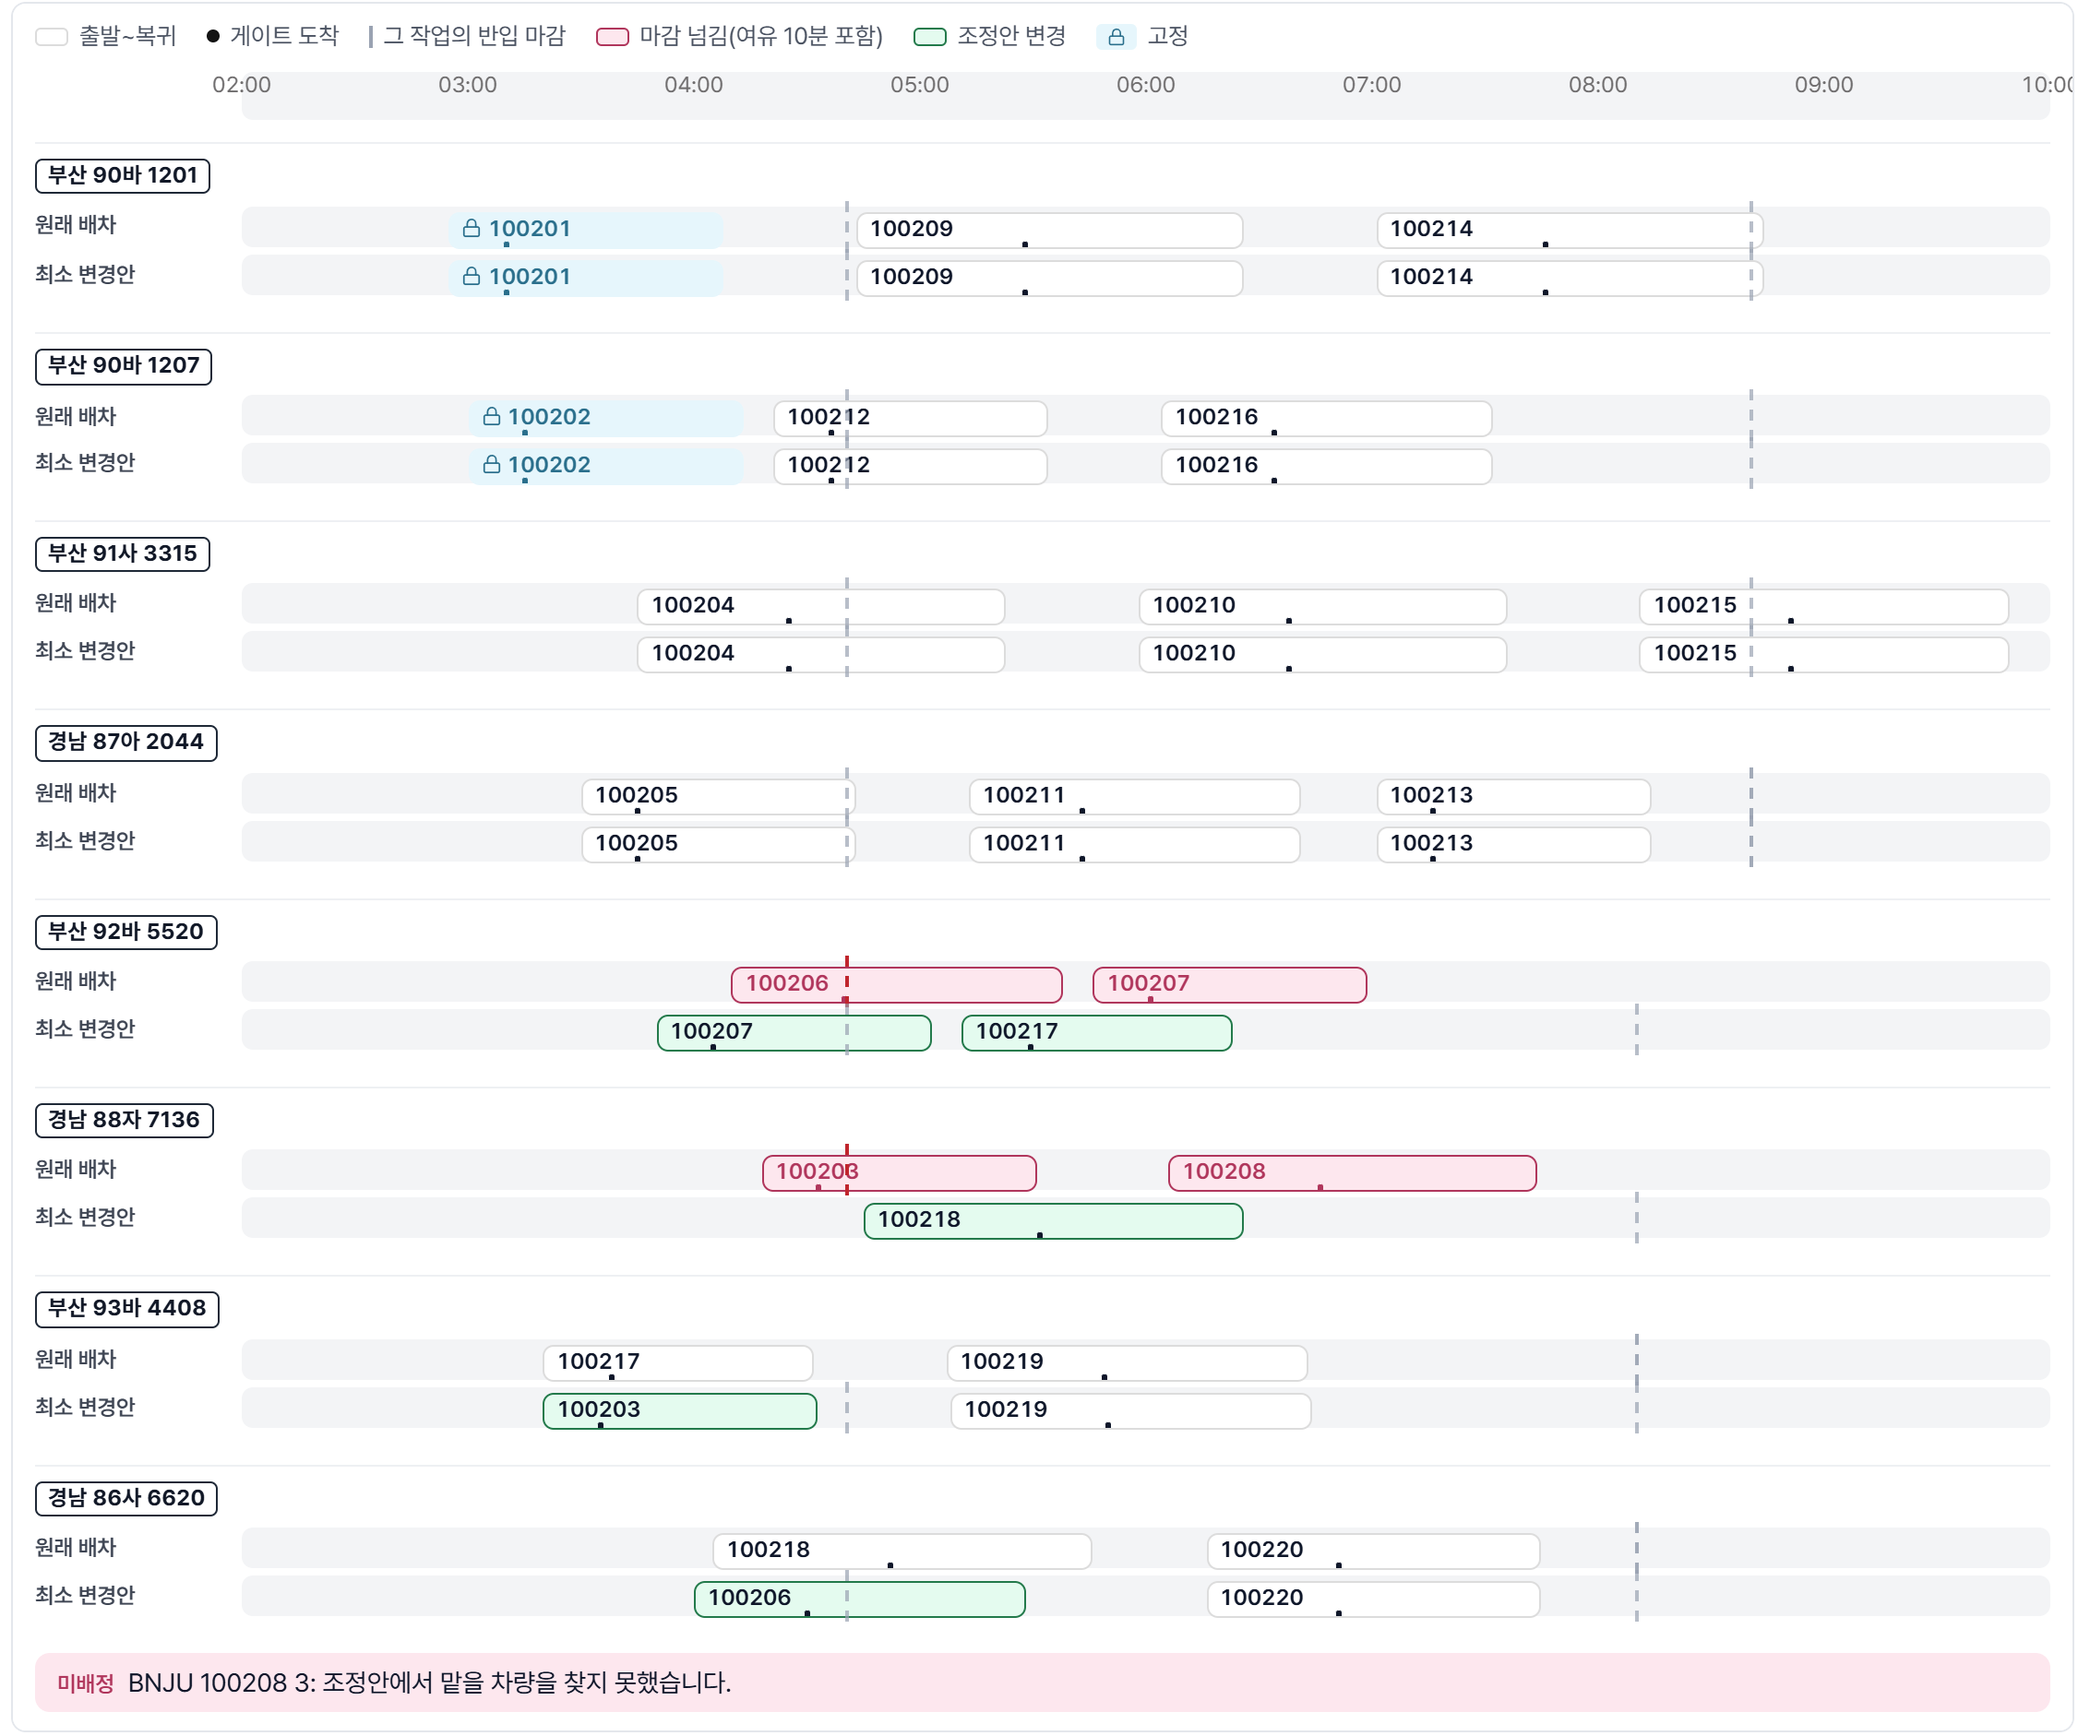
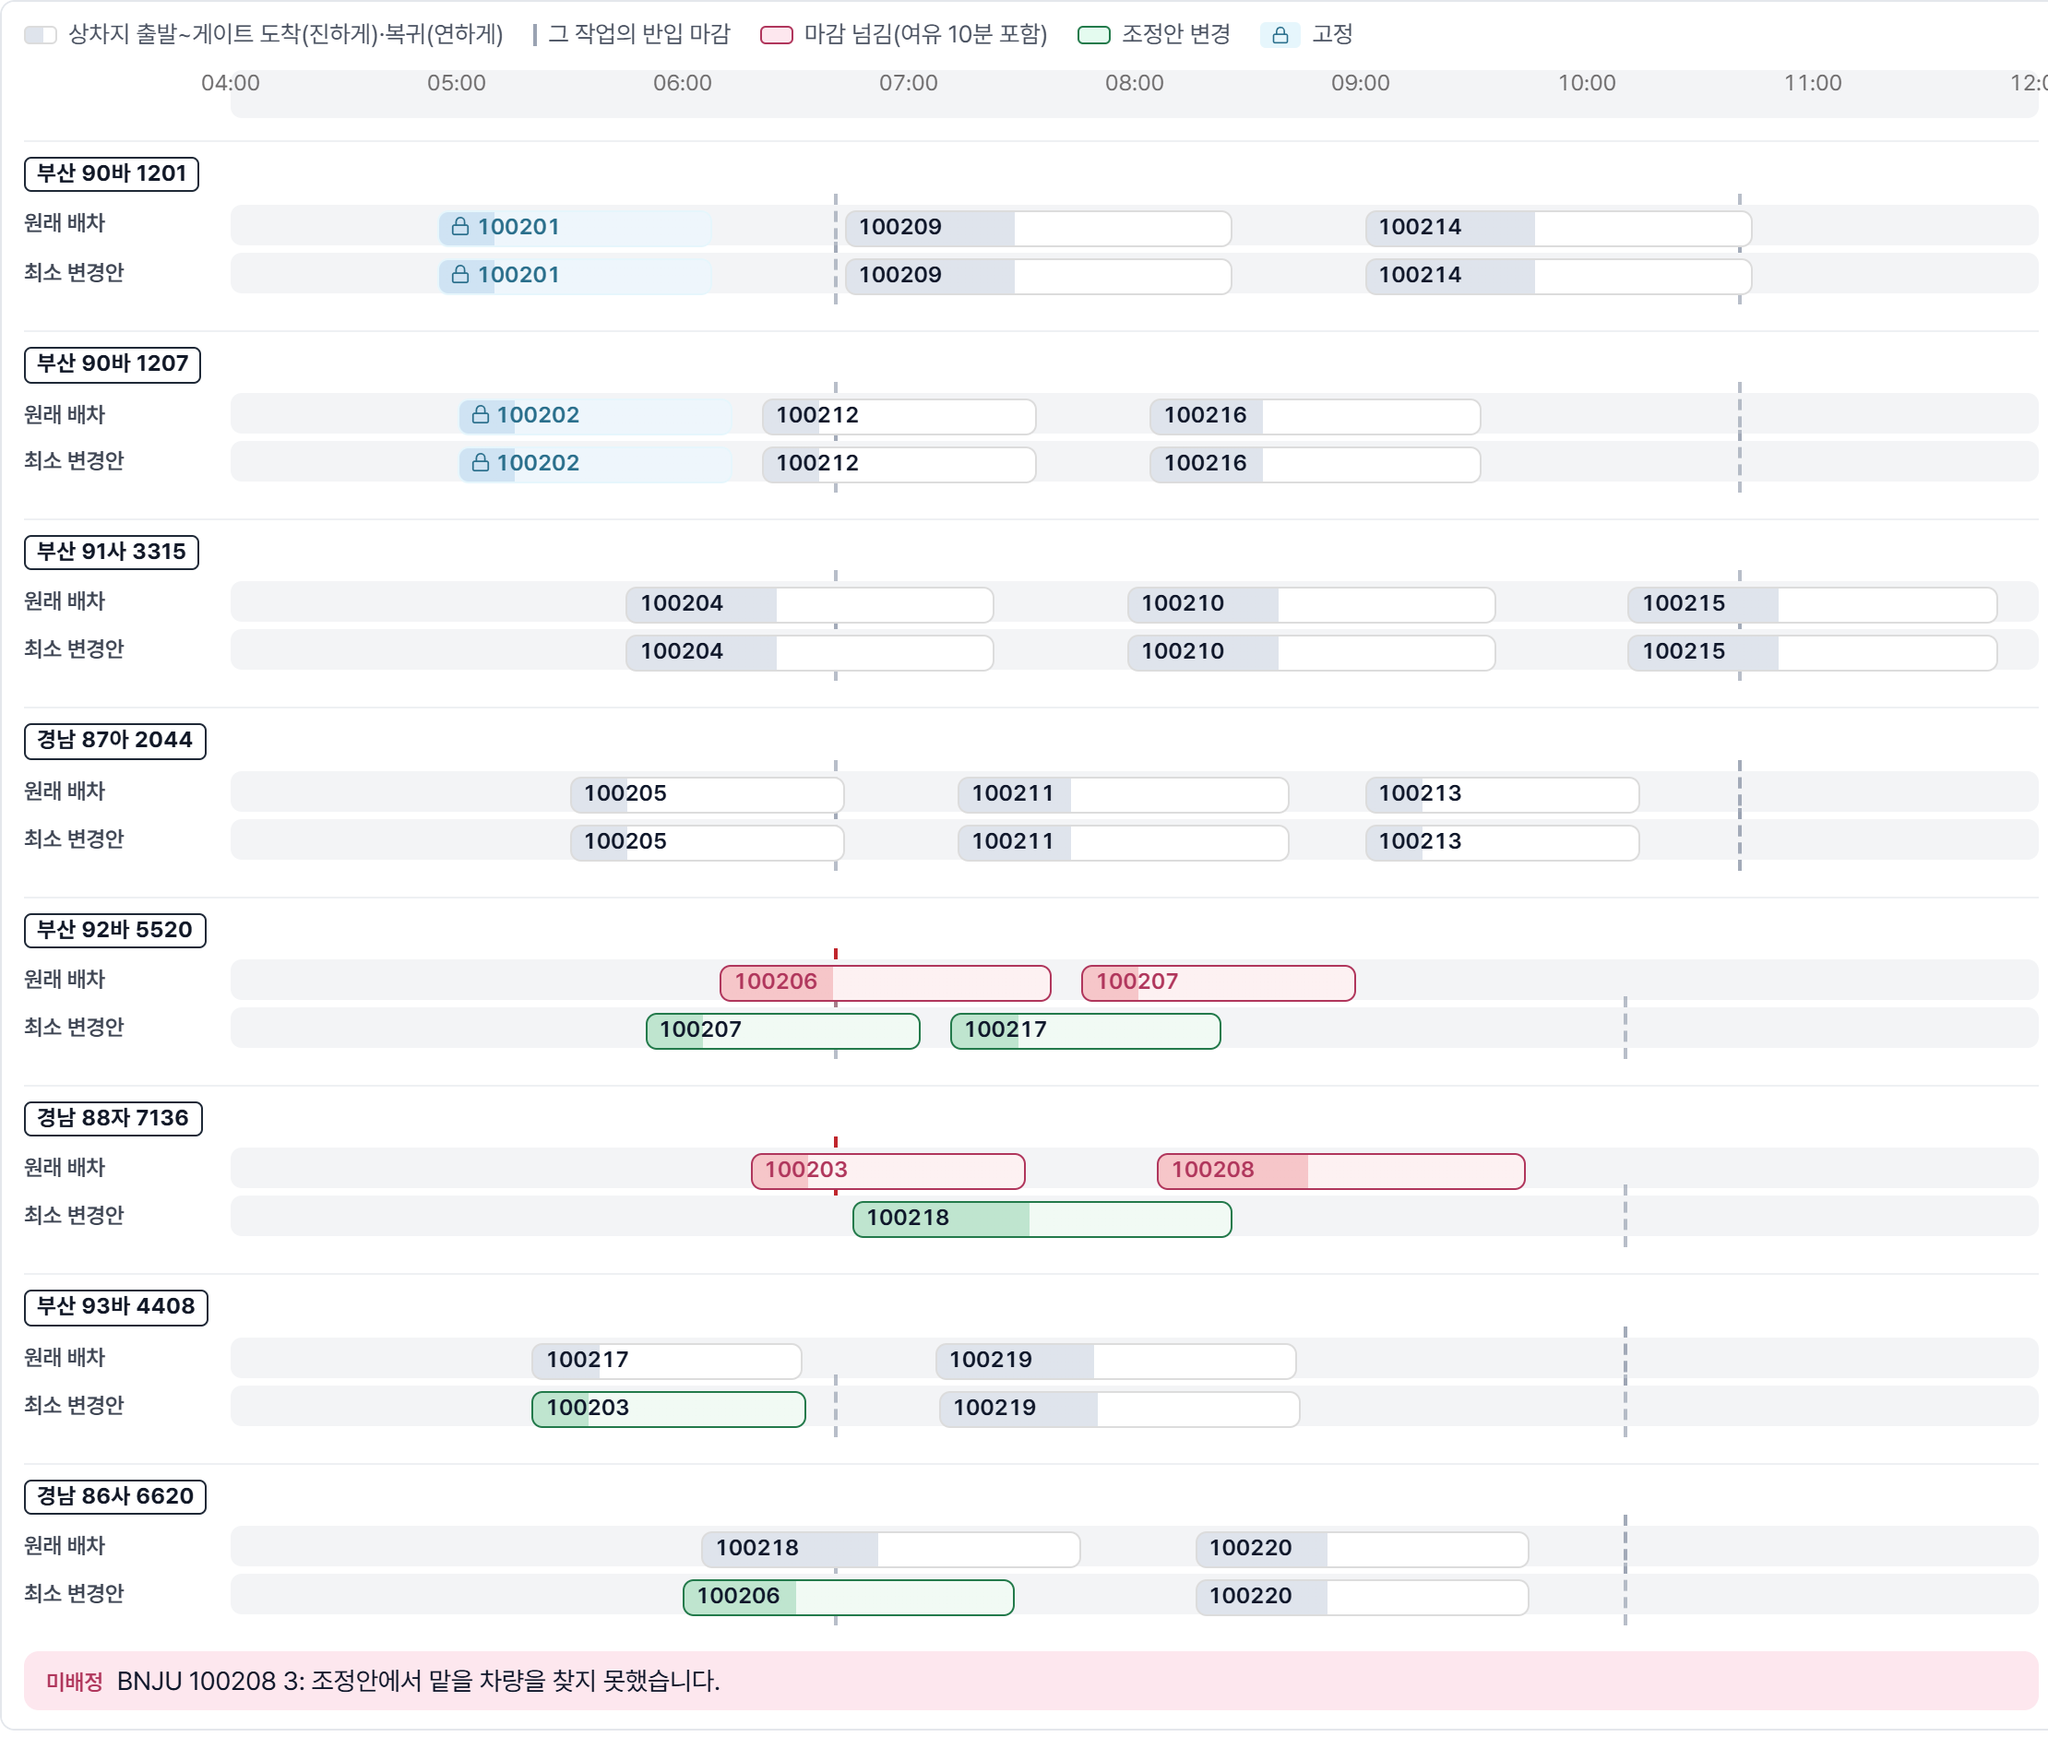
보고서 그림 6을 새 시간 막대로, 사용 흐름 GIF 갱신

diff --git a/docs/report/final/report.html b/docs/report/final/report.html
@@ -354,8 +354,8 @@
 
 <section>
   <h3>3.5 판단을 돕는 화면 — 근거를 함께 보여 준다</h3>
-  <p>담당자가 계산 결과를 믿고 확정할 수 있도록, 모든 제안에 시간표·지도·입력 근거를 붙였다. 아래는 시연 BHMN(반입 마감 07:10에서 04:40으로 앞당김)의 원래 배차와 최소 변경안이다.</p>
-  <figure><img src="figures/03-comparison-gantt.png"><figcaption><b>그림 6.</b> 원래 배차와 최소 변경안(차량별 시간 막대). 원래 배차에서는 부산 92바 5520과 경남 88자 7136의 작업 4건(빨강)이 마감을 넘긴다. 최소 변경안은 이 작업들을 다른 차량과 맞바꿔 3건을 마감 안에 넣고, 바뀐 작업은 5건(초록), 관련 차량은 4대다. 나머지 4대는 그대로다. 상차 준비가 늦은 100208 3은 어떤 차량으로도 맞출 수 없어 '미배정'과 원인을 표시한다. 자물쇠는 이미 출발한 작업, 점선은 각 작업의 반입 마감이다.</figcaption></figure>
+  <p>담당자가 계산 결과를 믿고 확정할 수 있도록, 모든 제안에 시간표·지도·입력 근거를 붙였다. 아래는 시연 BHMN(반입 마감 2시간 30분 앞당김)의 원래 배차와 최소 변경안이다. 막대의 진한 부분은 상차지 출발부터 게이트 도착까지, 연한 부분은 복귀까지다. 진한 부분이 점선(그 작업의 반입 마감)을 넘으면 늦는다.</p>
+  <figure><img src="figures/03-comparison-gantt.png"><figcaption><b>그림 6.</b> 원래 배차와 최소 변경안(차량별 시간 막대). 원래 배차에서는 부산 92바 5520과 경남 88자 7136의 작업 4건(빨강)이 마감을 넘긴다. 최소 변경안은 이 작업들을 다른 차량과 맞바꿔 3건을 마감 안에 넣고, 바뀐 작업은 5건(초록), 관련 차량은 4대다. 나머지 4대는 그대로다. 상차 준비가 늦은 100208 3은 어떤 차량으로도 맞출 수 없어 '미배정'과 원인을 표시한다. 자물쇠는 이미 출발한 작업이다.</figcaption></figure>
   <h4>담당자의 질문과 화면이 주는 근거</h4>
   <table>
     <tr><th style="width:27%">담당자의 질문</th><th>화면에서 보는 근거</th></tr>
